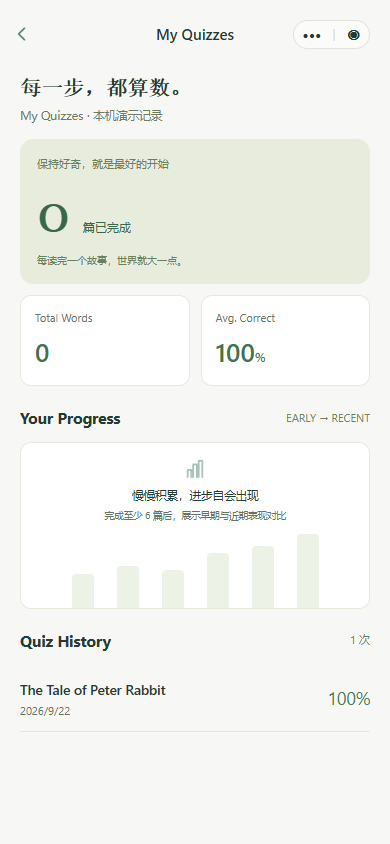
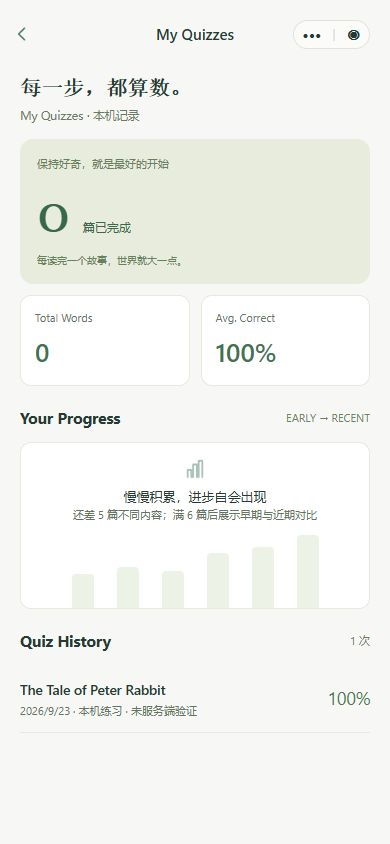
docs: record X-04 completion evidence

diff --git a/docs/正式产品实施计划-v1.1.md b/docs/正式产品实施计划-v1.1.md
@@ -4,7 +4,7 @@
 > 更新日期：2026-09-23
 > 文档状态：**当前执行基线**  
 > 当前阶段：阶段 0 进行中，发布结论为 **NO-GO**  
-> 下一执行任务：`C-03 外部权利审核签署`；客户端完成 `X-02` 真机后台/锁屏验收
+> 下一执行任务：`C-03 外部权利审核签署`；客户端补齐 `X-02` 真机后台/锁屏验收并持续执行 `X-05`
 
 ## 0. 文档定位与执行规则
 
@@ -51,7 +51,7 @@
 | 字幕审核 | 审核人 `wzx` 已完整听完全文并签署 28/28 个裁决；O1/O2 已按录音恢复；校验、应用和客户端导出通过 | `subtitleReviewComplete:true`，字幕子门槛已关闭 |
 | 词汇 | 371 个审核单元已完成经 `wzx` 授权的 AI 辅助全量审核；13 组按上下文拆义，Benjamin 与 McGregor’s 作为专名排除；形成 358 个正式义项、覆盖 906 个可点击 token | `vocabularyApproved:true`；审核方式与 12 个低置信度复核项已归档；整体人工完成门槛和发布门槛仍关闭 |
 | 旧内容 | 4 本旧书、7 章音频已导入 `legacy-listen-read` | 仅 Demo/待审核，不是正式商品 |
-| 自动检查 | `npm test` 44/44；`npm run check` 通过 13 个原生路由；内容结构检查通过 10 本；正式/Demo 浏览器 14 路由回归通过，含真实音频跨页会话、拖尾拦截和重启断点 | 仅证明当前工程自洽，不代替整体人工审核、真机和业务资质 |
+| 自动检查 | `npm test` 53/53；`npm run check` 通过 13 个原生路由；内容结构检查通过 10 本；正式/Demo 浏览器 14 路由回归通过，含真实音频跨页会话、拖尾拦截、重启断点和 X-04 可信边界 | 仅证明当前工程自洽，不代替整体人工审核、真机和业务资质 |
 | 正式后端 | 无服务端工程、数据库迁移、对象存储或部署配置 | 尚未开始 |
 | 阶段 0 | `PASS 0 / PARTIAL 2 / BLOCKED 12 / N/A 0` | **NO-GO** |
 
@@ -127,13 +127,13 @@
 
 | ID | 状态 | 任务 | 完成判定与证据 |
 | --- | --- | --- | --- |
-| X-01 | `DONE` | 播放器跨页状态 | 全局播放会话统一持有篇目、播放/暂停、位置、倍速、循环和错误状态；页面只订阅快照并在隐藏/卸载时退订；跨页继续播放、返回接管实时位置、用户暂停不自动恢复；系统媒体事件、词卡/Quiz 暂停意图及并发本机写入已测试；证据见 44/44 单测与 `artifacts/production/audio-test.json` |
+| X-01 | `DONE` | 播放器跨页状态 | 全局播放会话统一持有篇目、播放/暂停、位置、倍速、循环和错误状态；页面只订阅快照并在隐藏/卸载时退订；跨页继续播放、返回接管实时位置、用户暂停不自动恢复；系统媒体事件、词卡/Quiz 暂停意图及并发本机写入已测试；证据见当前 53/53 单测与 `artifacts/production/audio-test.json` |
 | X-02 | `PARTIAL_DEVICE_PENDING` | 断点与可靠完成判定 | 已实现游标与可信断点分离、跨重启暂停恢复、唯一收听区间合并、真实墙钟计时、版本失效和异常后台间隔拒绝；完成必须满足自然结束、唯一覆盖率至少 90% 且尾部 3 秒已听；拖尾测试与浏览器重启测试通过。仍需按 `docs/X-02真机验收记录-template.md` 在至少一台微信真机验证后台、锁屏和系统控制后才可 `DONE` |
 | X-03 | `DONE` | 正式点词体验 | 358 个审核义项映射全文 906 个可点击 token；使用 token 的上下文 `vocabKey` 显示义项；播放中打开词卡暂停，关闭后仅在原先播放时续播；映射和意图已纳入自动测试 |
-| X-04 | `TODO` | Quiz、报告和排行边界 | 题目版本可追溯；服务端判题接口已定义；样本不足和未登录状态不伪造结果 |
+| X-04 | `DONE` | Quiz、报告和排行边界 | 题包身份随生成模块输出；attempt 保存版本、题目、逐题选择、起止时间及验证状态；本机反馈明确标为 `local_unverified`；旧记录保留但不进入新统计；报告每篇只取最新兼容记录，至少 6 篇才显示早期/近期趋势；排行榜仅保留 7-Day / All-Time 并显示真实不可用状态；服务端判题契约见 `docs/Quiz-attempt-API-v1.md`，53/53 单测和浏览器全流程通过 |
 | X-05 | `PARTIAL` | 正式/Demo 隔离 | 自动检查和微信开发版已通过；体验版、正式版 Android/iPhone 证据仍缺 |
 
-字幕审核、`X-03` 与 `X-01` 已完成；`X-02` 自动验收完成但等待真机证据；取得该证据后进入 `X-04`；`X-05` 是每次构建的持续回归门槛。
+字幕审核、`X-03`、`X-01` 与 `X-04` 已完成；`X-02` 自动验收完成但等待真机证据；`X-05` 是每次构建的持续回归门槛。服务端判题实现属于后端阶段，不由本机结果替代。
 
 ### 4.3 后端基础 B
 
@@ -268,7 +268,7 @@ flowchart LR
 1. `C-01` 已完成：审核人 `wzx` 完整听审并签署 28/28 个裁决，校验、应用和导出通过，正式字幕为 59 条。
 2. `C-02` 已完成并应用：371 项经 `wzx` 授权的 AI 辅助全量审核形成 358 个正式义项；整体人工完成门槛继续保持关闭。
 3. 将 C-03 证据包交给外部审核人，补齐姓名、机构、日期、中国大陆商业使用结论、证据 ID 和限制条件；运营主体成立前保持 `PENDING_ENTITY`。
-4. `C-04` 已完成授权 AI 辅助全量审核：10 道题、元数据和 `contentVersion:1` 可追溯；`X-03` 与 `X-01` 已完成；`X-02` 已通过 44/44 单测和真实音频浏览器回归，下一步在至少一台微信真机验证后台、锁屏、系统暂停/恢复和可信时长后再标记 `DONE`。
+4. `C-04` 已完成授权 AI 辅助全量审核；`X-03`、`X-01` 与 `X-04` 已完成。X-04 已冻结本机未验证记录、报告聚合和空排行榜边界，并定义服务端判题契约；`X-02` 仍需在至少一台微信真机验证后台、锁屏、系统暂停/恢复和可信时长后再标记 `DONE`。
 5. 项目负责人并行关闭阶段 0 外部证据；形成 `GO` 后才进入真实交易实施与启用。
 
 ---
@@ -284,6 +284,7 @@ flowchart LR
 | v1.1.4 | 2026-09-22 | X-03 完成：358 个审核义项覆盖 906 个可点击 token，上下文拆义和词卡播放意图已接入并回归；发布闸门保持关闭；开发侧转入 X-01 |
 | v1.1.5 | 2026-09-22 | X-01 完成：全局播放会话在页面切换时保持篇目、实时位置、播放状态与倍速；用户暂停不自动恢复，旧页面退订，系统媒体事件与并发本机更新纳入回归；开发侧转入 X-02 |
 | v1.1.6 | 2026-09-23 | X-02 代码与自动验收完成：90% 唯一覆盖、自然结束和尾部 3 秒共同决定完成；重启从可信断点暂停恢复；倍速按真实墙钟计时；拖尾、异常后台间隔和版本变化均有回归。因缺少微信真机后台/锁屏证据，状态为 `PARTIAL_DEVICE_PENDING` |
+| v1.1.7 | 2026-09-23 | X-04 完成：版本化 attempt、逐题选择与验证状态落地；旧记录不混入新版统计；每篇仅取最新兼容记录，6 篇后才显示趋势；移除虚构排行筛选、用户和名次；冻结 `POST /me/quiz-attempts` 服务端判题契约；自动检查提升至 53/53 |
 | v1.0 | 2026-09-18 | 建立正式产品商业闭环、阶段门槛和实施框架 |
 
 ## 参考文档
@@ -292,6 +293,7 @@ flowchart LR
 - `docs/内容权利台账-v1.0.md`
 - `docs/原生产品模式验收记录-2026-09-21.md`
 - `docs/X-02真机验收记录-template.md`
+- `docs/Quiz-attempt-API-v1.md`
 - `听阅小程序-技术架构与需求总览-v1.2.md`
 - `听阅小程序-页面设计与技术实现说明书-v1.0.md`
 - `录音-字幕-点词内容管道设计-v1.0.md`

diff --git a/开发进度与待办.md b/开发进度与待办.md
@@ -6,7 +6,7 @@
 
 - 阶段 0 已于 2026-09-20 启动，核验基线见 `docs/阶段0核验表-v1.0.md`；当前为 `NO-GO`，尚未获准真实收款或正式内容发布。
 - 内容权利台账已建立于 `docs/内容权利台账-v1.0.md`；Peter Rabbit 的 C-03 已完成公开证据整理、来源对齐和不明来源素材替换，达到 `READY_FOR_EXTERNAL_REVIEW`，但没有任何作品达到 `APPROVED`，所有内容继续保持内测/待审核状态。
-- 当前仓库基线：`npm test` 44/44 通过，`npm run check` 通过 13 个原生路由检查，`node tools/content-check.js` 通过 10 本内容结构校验；正式/Demo 浏览器共 14 路由回归通过，正式模式已覆盖真实音频跨页会话、拖尾完成拦截和浏览器重启断点恢复。这些自动检查不替代整体人工内容、账号、支付、权利、隐私和真机验收。
+- 当前仓库基线：`npm test` 53/53 通过，`npm run check` 通过 13 个原生路由检查，`node tools/content-check.js` 通过 10 本内容结构校验；正式/Demo 浏览器共 14 路由回归通过，覆盖真实音频可靠进度与 X-04 测验/报告/排行可信边界。这些自动检查不替代整体人工内容、账号、支付、权利、隐私和真机验收。
 - 默认正式模式已收敛为 Peter Rabbit 单书，隐藏优惠券、邀请、演示购买、实体借阅和固定验证码；Demo 使用独立缓存键，且仅可显式开启。微信原生开发版已验证显式进入 Demo、清除后恢复正式模式；体验版/正式版真实环境仍待验收。
 - 阶段 0 下一阻断：项目负责人提供小程序认证与商户绑定证据，确认 Android/iPhone 收费路径、正式商品/售价/退款规则、目标经营地区，并指定内容权利与运营负责人。
 
@@ -26,7 +26,7 @@
 | 书库 | 6 本样例；书名/系列/作者/编号搜索及类别筛选；词数、页数、等级为待核验样例 |
 | 音频 | 彼得兔一章真实 LibriVox MP3，322.026 秒；浏览器实测解码、播放、暂停续播、拖动、倍速、结束事件与跨页继续播放通过 |
 | 收藏与记录 | 本地收藏、最近访问听读；跨页共享播放状态；重启从可信断点暂停恢复；覆盖区间去重，倍速按真实耗时统计；跨设备同步尚未完成 |
-| Quiz | 彼得兔固定 10 道项目原创双语理解题；每题绑定审核正文 cue；作答、解释、计分、80 分掌握反馈、本地版本化记录和报告展示 |
+| Quiz | 彼得兔固定 10 道项目原创双语理解题；每题绑定审核正文 cue；本机反馈明确未验证；版本化 attempt 保存逐题选择；报告按每篇最新兼容记录聚合，满 6 篇才显示趋势；排行不伪造数据 |
 | 借阅 | 仅 Demo 保留本机演示预约、重复预约拦截、取消；正式首版不开放 |
 | 登录 | 仅 Demo 保留微信/手机号双入口和固定验证码；正式模式不伪装真实鉴权 |
 | 内容维护 | JSON 样例目录、稳定 ID、字段校验与本地构建；尚无云端内容发布后台 |
@@ -41,12 +41,12 @@
 5. **真实账户与云端存储**：接微信服务端身份校验、短信服务、绑定/受控合并；部署数据库与文件存储；进度、收藏、题目记录、借阅跨设备同步。
 6. **完成体验版与正式版隔离验收**：代码、浏览器回归和微信原生开发版验证已完成，记录见 `docs/原生产品模式验收记录-2026-09-21.md`。下一步由具有上传权限的项目成员创建体验版，确认其无法读取 Demo 开关；正式提审前在 Android/iPhone 重复验证并保存版本号与截图。实体借阅不在正式首版范围内。
 7. **运营加书流程**：上传音频与文本，自动校验和处理，预览确认后发布到云端；客户端从 API 拉内容，实现新增书籍不发版。本地 JSON 仍随前端打包。
-8. **完善测验、报告与排行**：题目从核对后的正文生成并审核；服务端判题、统计实际听读时长；早期/近期趋势、榜单聚合与样本不足状态。当前趋势与排行未连接真实数据。
+8. **完善测验、报告与排行**：`X-04` 客户端边界已于 2026-09-23 完成。本机结果标为 `local_unverified`，旧记录只展示不参与新版统计，同一篇只取最新兼容记录，至少 6 篇才显示早期/近期趋势；排行榜未接服务端时只展示不可用状态，不伪造用户、名次或筛选。服务端按 `docs/Quiz-attempt-API-v1.md` 实现判题和验证仍属于后端任务。
 9. **微信真机和上线验收**：AppID、合法域名、后台音频权限、锁屏控制、系统打断、弱网、缓存及 iOS/Android 兼容测试。
 10. **真实支付与权益（见 `docs/正式产品实施计划-v1.1.md` 的 `P` 任务）**：阶段 0 `GO` 后实施服务端商品/订单/权益、验签、查单补偿、退款/对账；客户端不凭本地状态解锁。
 11. **登录与同步（见主计划 `B-03`、`S-01` 至 `S-04`）**：`wx.login` 会话、一次性本机学习数据导入、可信增量合并；本机 `purchased/coupons` 不迁入权益。
 12. **内容权利与阶段 0（见主计划 `C-03`、§6）**：Peter Rabbit 中国大陆商业使用外审证据包与空白签署模板已就绪，下一步由实际外部审核人签署；原创/Oz 分项权利证据、支付资格与收费适用性仍待确认；所有内容保持 `publishable:false` 至复核通过。
 
-后续开发统一按 `docs/正式产品实施计划-v1.1.md` 的任务 ID、顺序和完成定义执行。C-04、X-03 与 X-01 已完成；X-02 等待单台微信真机后台/锁屏验收后关闭；当前外部动作仍是 C-03 权利审核签署。X-02 真机证据完成后进入 X-04；C-05 及发布仍需等待全部阻断关闭。
+后续开发统一按 `docs/正式产品实施计划-v1.1.md` 的任务 ID、顺序和完成定义执行。C-04、X-03、X-01 与 X-04 已完成；X-02 等待单台微信真机后台/锁屏验收后关闭；当前外部动作仍是 C-03 权利审核签署，客户端持续执行 X-05 隔离回归。C-05 及发布仍需等待全部阻断关闭。
 
 具体模块、内容包格式、处理状态、验收规则和批量扩展方案见：`录音-字幕-点词内容管道设计-v1.0.md`。

diff --git a/README.md b/README.md
@@ -26,7 +26,7 @@ npm run preview
 
 Peter Rabbit 的字幕人耳审核已完成；371 个词汇审核单元也已在 `wzx` 明确授权下完成 AI 辅助全量审核并应用，形成 358 个正式义项、覆盖 906 个可点击 token。审核方式在归档中如实记录，整体人工完成门槛及发布门槛仍保持关闭。工作台位于 `content/peter-rabbit/peter-rabbit-01/review/vocab-index.html`。
 
-阅读小测支持彼得兔固定 10 道项目原创双语理解题，每题绑定审核正文 cue，并提供双语解释；80 分只作掌握反馈，不限制内容访问。三本原创故事保留各章节旧题和 54 段选项朗读；《The Wonderful Wizard of Oz》暂未导入小测。排行榜使用真实数据未接入的空状态，不编造用户和排名。归还、馆员核销、到期通知、账户合并、押金支付和跨设备同步未实现，需下一阶段后端开发。
+阅读小测支持彼得兔固定 10 道项目原创双语理解题，每题绑定审核正文 cue，并提供双语解释；80 分只作本机掌握反馈，不限制内容访问。本机 attempt 保存题包版本与逐题选择，并明确标为“未经服务端验证”；旧记录保留展示但不进入新版统计，同一篇只采用最新兼容记录，至少 6 篇不同内容才显示趋势。三本原创故事保留各章节旧题和 54 段选项朗读；《The Wonderful Wizard of Oz》暂未导入小测。排行榜仅保留 7-Day / All-Time，真实服务未接入时显示不可用状态，不编造用户和排名；服务端判题契约见 `docs/Quiz-attempt-API-v1.md`。归还、馆员核销、到期通知、账户合并、押金支付和跨设备同步未实现，需下一阶段后端开发。
 
 ## 内容如何补充
 

diff --git a/docs/阶段0核验表-v1.0.md b/docs/阶段0核验表-v1.0.md
@@ -40,8 +40,8 @@
 
 | 检查 | 结果 | 复现命令 |
 | --- | --- | --- |
-| 单元测试 | 44/44 通过，含 X-02 可信断点、覆盖合并、拖尾拦截、倍速墙钟计时和版本失效 | `npm test` |
-| 浏览器产品模式回归 | 正式模式隔离、真实音频跨页会话、用户暂停保护、拖尾不完成、浏览器重启断点、视觉和 Demo 全流程由统一脚本执行 | `npm run test:browser` |
+| 单元测试 | 53/53 通过，含 X-02 可靠进度及 X-04 版本化 attempt、选项边界、旧记录隔离、每篇最新记录和 6 篇趋势门槛 | `npm test` |
+| 浏览器产品模式回归 | 正式模式隔离、真实音频跨页会话、用户暂停保护、拖尾不完成、浏览器重启断点、X-04 未验证标签/报告/排行空状态、视觉和 Demo 全流程由统一脚本执行 | `npm run test:browser` |
 | 微信原生开发版模式 | 默认正式、显式 Demo、清除后恢复正式均通过；体验版/正式版真实环境待验 | 查看 `docs/原生产品模式验收记录-2026-09-21.md` |
 | 小程序静态检查 | 13 个路由、绑定、资源与 JS/JSON 语法通过；包约 2417 KiB | `npm run check` |
 | 内容目录校验 | 10 本通过结构校验 | `node tools/content-check.js` |
